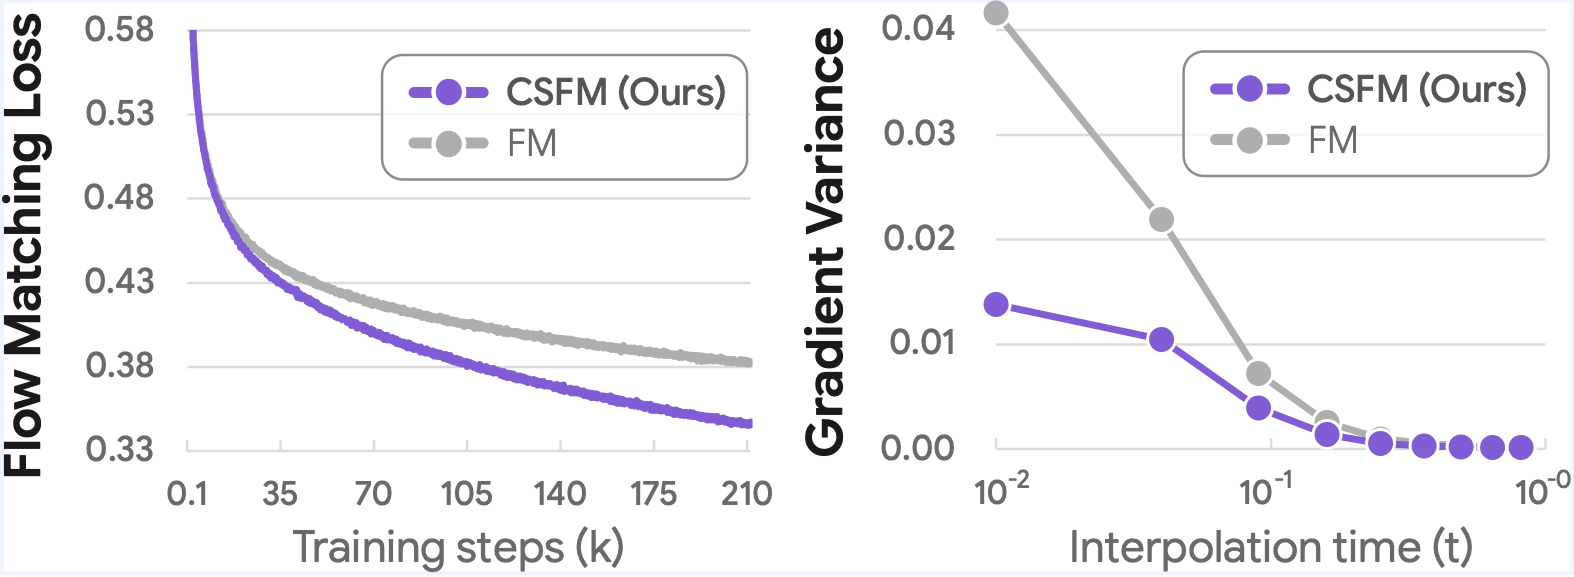
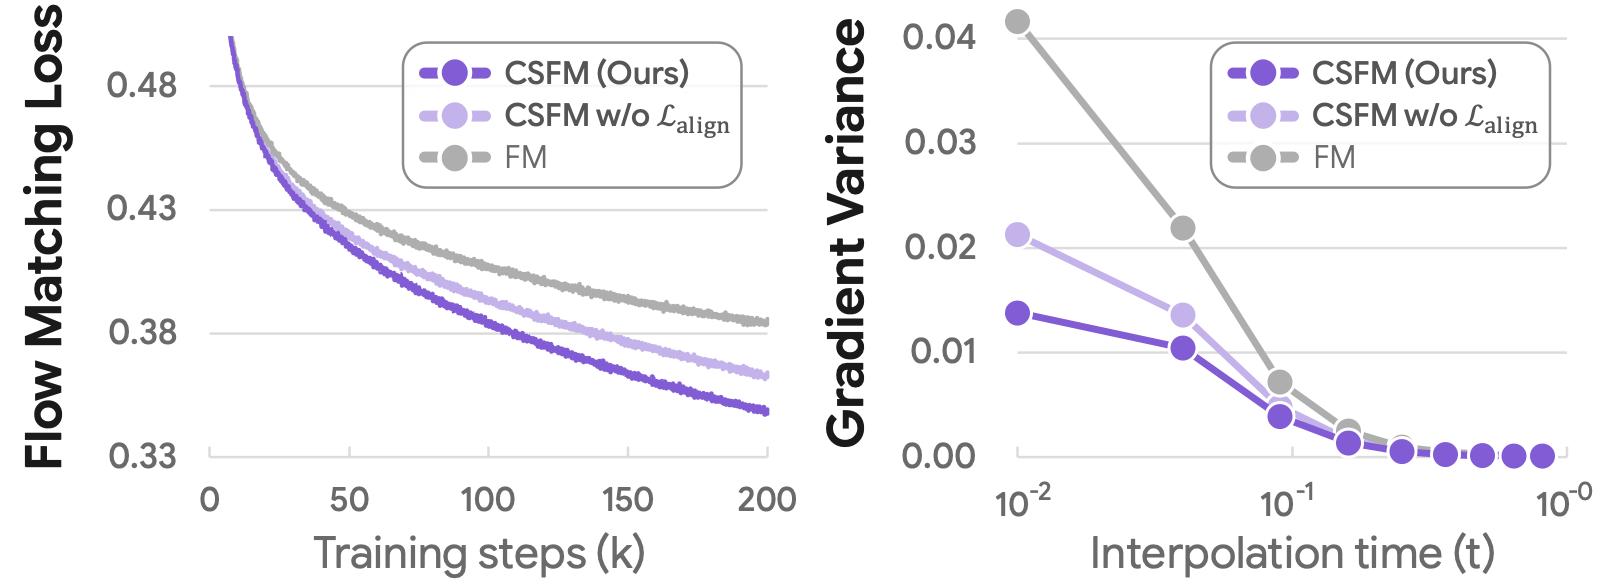
fixed figures

diff --git a/index.html b/index.html
@@ -183,12 +183,12 @@
                 </div>
                 <h3>Learning a Conditional Source Distribution (B)</h3>
                 <p>
-                We explicitly learn the source distribution in a condition-dependent manner, allowing it to adapt to the conditioning signal and enabling end-to-end optimization of the source–target coupling for conditional generation tasks such as text-to-image synthesis.
+                We explicitly learn the source distribution in a condition-dependent manner, allowing it to adapt to the conditioning signal and enabling end-to-end optimization of the source–target coupling for conditional generation tasks such as text-to-image synthesis. However, implementing the conditional source as a deterministic mapping severely restricts its support and leads to degenerate transport.
                 </p>
 
                 <h3>Conditional Gaussian for Sufficient Support (C) </h3>
                 <p>
-                However, implementing a conditional source as a deterministic mapping severely restricts support and leads to degenerate transport. To ensure sufficient support and smooth interpolation, we parameterize the source as a conditional Gaussian.
+                To ensure sufficient support and smooth interpolation, we parameterize the source as a conditional Gaussian. However, despite this Gaussian parameterization, joint training with the flow model often drives the conditional variance toward zero.
                 </p>
 
                 <h3>Limitations of KL-based Regularization (D) </h3>
@@ -203,7 +203,7 @@
 
                 <h3>Source–Target Directional Alignment</h3>
                 <p>
-                In practical conditional generation tasks such as text-to-image synthesis, the flow model is typically equipped with strong conditional modeling capacity. Consequently, the flow matching objective provides relatively weak learning signals for the source distribution, making it harder to learn an informative source in practice. To address this, we explicitly encourage directional alignment between the learned source and target samples, guiding the source to better reflect the target structure in high-dimensional settings.
+                In practical conditional generation tasks such as text-to-image synthesis, the flow model is typically equipped with strong conditional modeling capacity. Consequently, the flow matching objective provides relatively weak learning signals for the source distribution, making it difficult to learn an informative source in practice. To address this, we explicitly encourage directional alignment between the learned source and target samples, guiding the source to better reflect the target structure in high-dimensional settings and facilitating more stable optimization.
                 </p>
 
                 <p>
@@ -221,7 +221,7 @@
                         <div class="slide">
                             <img src="images/fmloss_gradvar.png"
                                 class="comparison-slideshow-image" alt="Flow matching loss and gradient variance">
-                            <div class="image-caption">CSFM shows a faster decrease in the flow matching loss and consistently lower gradient variance than standard FM, with particularly clear gains at small interpolation times near the source.</div>
+                            <div class="image-caption">CSFM shows a faster decrease in the flow matching loss and consistently lower gradient variance than standard FM, with particularly clear gains at small interpolation times near the source. As a secondary observation, removing the alignment loss results in higher FM loss and increased gradient variance, suggesting that alignment also contributes to improved flow matching optimization.</div>
                         </div>
                         
                         <div class="slide">
@@ -310,7 +310,7 @@
                 <div class="two-col">
                     <div class="col-left">
                         <p>
-                        The effectiveness of learning a condition-dependent source depends strongly on the structure of the target representation. When the target space exhibits well-separated and discriminative structure with respect to the conditioning signal, source learning becomes more effective.
+                            The effectiveness of learning a condition-dependent source depends strongly on the structure of the target representation. When the target space exhibits well-separated and discriminative structure with respect to the conditioning signal, source learning becomes more effective. Consistent with this observation, we observe substantially larger gains in both FID and CLIP Score in the RAE latent space compared to the SD-VAE latent space.
                         </p>
                         
                         <p>
@@ -318,8 +318,27 @@
                         </p>
                     </div>
                     <div class="col-right img">
-                        <div class="image-container">
-                            <img src="images/targetvssource.png" class="image-item img large-image z-depth-1" alt="Learned source distribution comparison">
+                        <p></p>
+                        <div class="slideshow-container">
+                            <div class="slideshow small">
+                                <div class="slide">
+                                    <img src="images/targetvssource.png"
+                                        class="comparison-slideshow-image" alt="Source distribution comparison">
+                                </div>
+                                <div class="slide">
+                                    <img src="images/stepcomparison_full.png"
+                                        class="comparison-slideshow-image" alt="Comparison between SD-VAE and RAE">
+                                </div>
+                            </div>
+        
+                            <button class="slideshow-nav prev" onclick="changeSlide(-1)">❮</button>
+                            <button class="slideshow-nav next" onclick="changeSlide(1)">❯</button>
+                            
+                            <div class="slideshow-controls">
+                                <button class="play-pause" onclick="togglePlayPause()">
+                                    <i class="fa fa-pause"></i>
+                                </button>
+                            </div>
                         </div>
                     </div>
                 </div>
@@ -417,7 +436,7 @@
             function startAutoplay() {
                 autoplayInterval = setInterval(() => {
                     showSlide(currentSlide + 1);
-                }, 5000);
+                }, 10000);
             }
 
             function resetAutoplay() {

diff --git a/style.css b/style.css
@@ -631,6 +631,15 @@ pre {
     flex-direction: column;
 }
 
+.slideshow.small {
+  position: relative;
+  height: 300px;
+  overflow: hidden;
+  border-radius: 5px;
+  display: flex;
+  flex-direction: column;
+}
+
 .slide {
     position: absolute;
     width: 100%;
